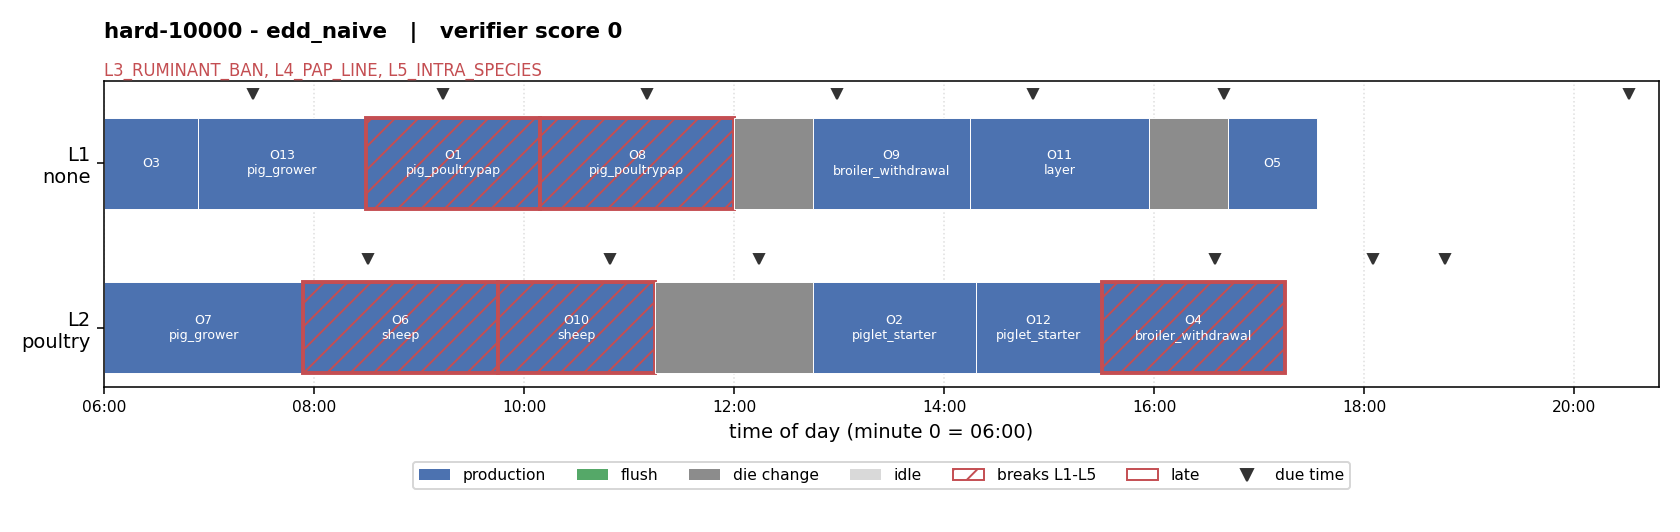
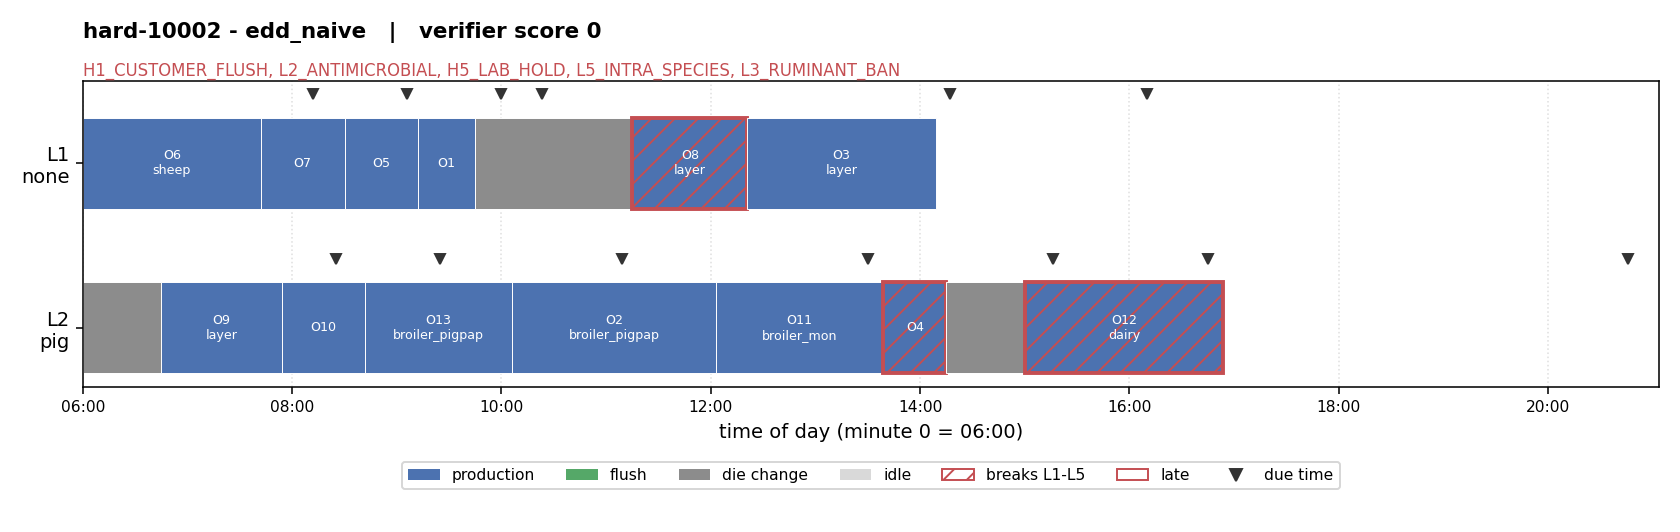
Pick a demo task whose valid schedule actually needs a flush
hard-10000 has one substance-bearing feed with a carry-over limit, and
earliest-due-date puts it last, so nothing follows it. Both the planted
solution and full_aware solve it with zero flushes. The pair of charts then
illustrated the line rules but not the carry-over that motivates them,
which is the mechanism the environment is built around.

pick_demo_task now also requires a flush in the valid schedule, falling back
to the looser criterion if no task offers one. 23 of 40 held-out hard tasks
qualify, so the choice stays wide. The demo is now hard-10002.

diff --git a/run.py b/run.py
@@ -216,19 +216,27 @@ def write_report(path: Path, evaluation: Evaluation, charts: dict[str, Path]) ->
 
 
 def pick_demo_task(seeds: Iterable[int], difficulties: Sequence[str]) -> D.Task | None:
-    """The first task where full_aware succeeds and edd_naive cheats.
+    """The first task where full_aware succeeds, edd_naive cheats, and a flush
+    is what separates them.
 
-    "Cheats" means the naive reward pays and the verifier does not, which is
-    what makes the pair of charts worth looking at.
+    "Cheats" means the naive reward pays and the verifier does not. The flush
+    matters for the picture: on a task whose feeds never contaminate each
+    other, the valid schedule contains no flush at all, and the two charts
+    then show the line rules but not the carry-over that motivates them.
+    Falls back to the looser criterion if no task satisfies the strict one.
     """
+    fallback: D.Task | None = None
     for difficulty in difficulties:
         for seed in seeds:
             task = G.generate(seed, difficulty).task
             good = run_episode(AGENTS["full_aware"](), task)
             bad = run_episode(AGENTS["edd_naive"](), task)
-            if good.score == 1 and bad.score == 0 and naive_reward(bad.final_state) == 1.0:
+            if not (good.score == 1 and bad.score == 0 and naive_reward(bad.final_state) == 1.0):
+                continue
+            if any(action["tool"] == D.TOOL_FLUSH for action in good.actions):
                 return task
-    return None
+            fallback = fallback or task
+    return fallback
 
 
 def write_charts(out_dir: Path, task: D.Task) -> dict[str, Path]:

diff --git a/tests/test_run.py b/tests/test_run.py
@@ -102,6 +102,9 @@ def test_the_demo_task_shows_a_real_exploit() -> None:
     assert good.score == 1, "the valid chart must show a schedule that passes"
     assert bad.score == 0, "the exploit chart must show one that does not"
     assert naive_reward(bad.final_state) == 1.0, "and the naive reward must pay for it"
+    assert any(a["tool"] == D.TOOL_FLUSH for a in good.actions), (
+        "the valid chart must contain a flush, or the pair does not show carry-over"
+    )
 
 
 def test_the_evaluation_matches_running_the_agents_directly() -> None:

diff --git a/results/results.md b/results/results.md
@@ -46,11 +46,11 @@ The naive reward counts lateness only, so it pays for `edd_naive`'s flush-free s
 
 ## Charts
 
-![A schedule the verifier accepts (hard-10000, full_aware)](gantt_valid.png)
+![A schedule the verifier accepts (hard-10002, full_aware)](gantt_valid.png)
 
-*A schedule the verifier accepts (hard-10000, full_aware)*
+*A schedule the verifier accepts (hard-10002, full_aware)*
 
-![On time, and illegal: the naive reward pays 1 (hard-10000, edd_naive)](gantt_exploit.png)
+![On time, and illegal: the naive reward pays 1 (hard-10002, edd_naive)](gantt_exploit.png)
 
-*On time, and illegal: the naive reward pays 1 (hard-10000, edd_naive)*
+*On time, and illegal: the naive reward pays 1 (hard-10002, edd_naive)*
 
